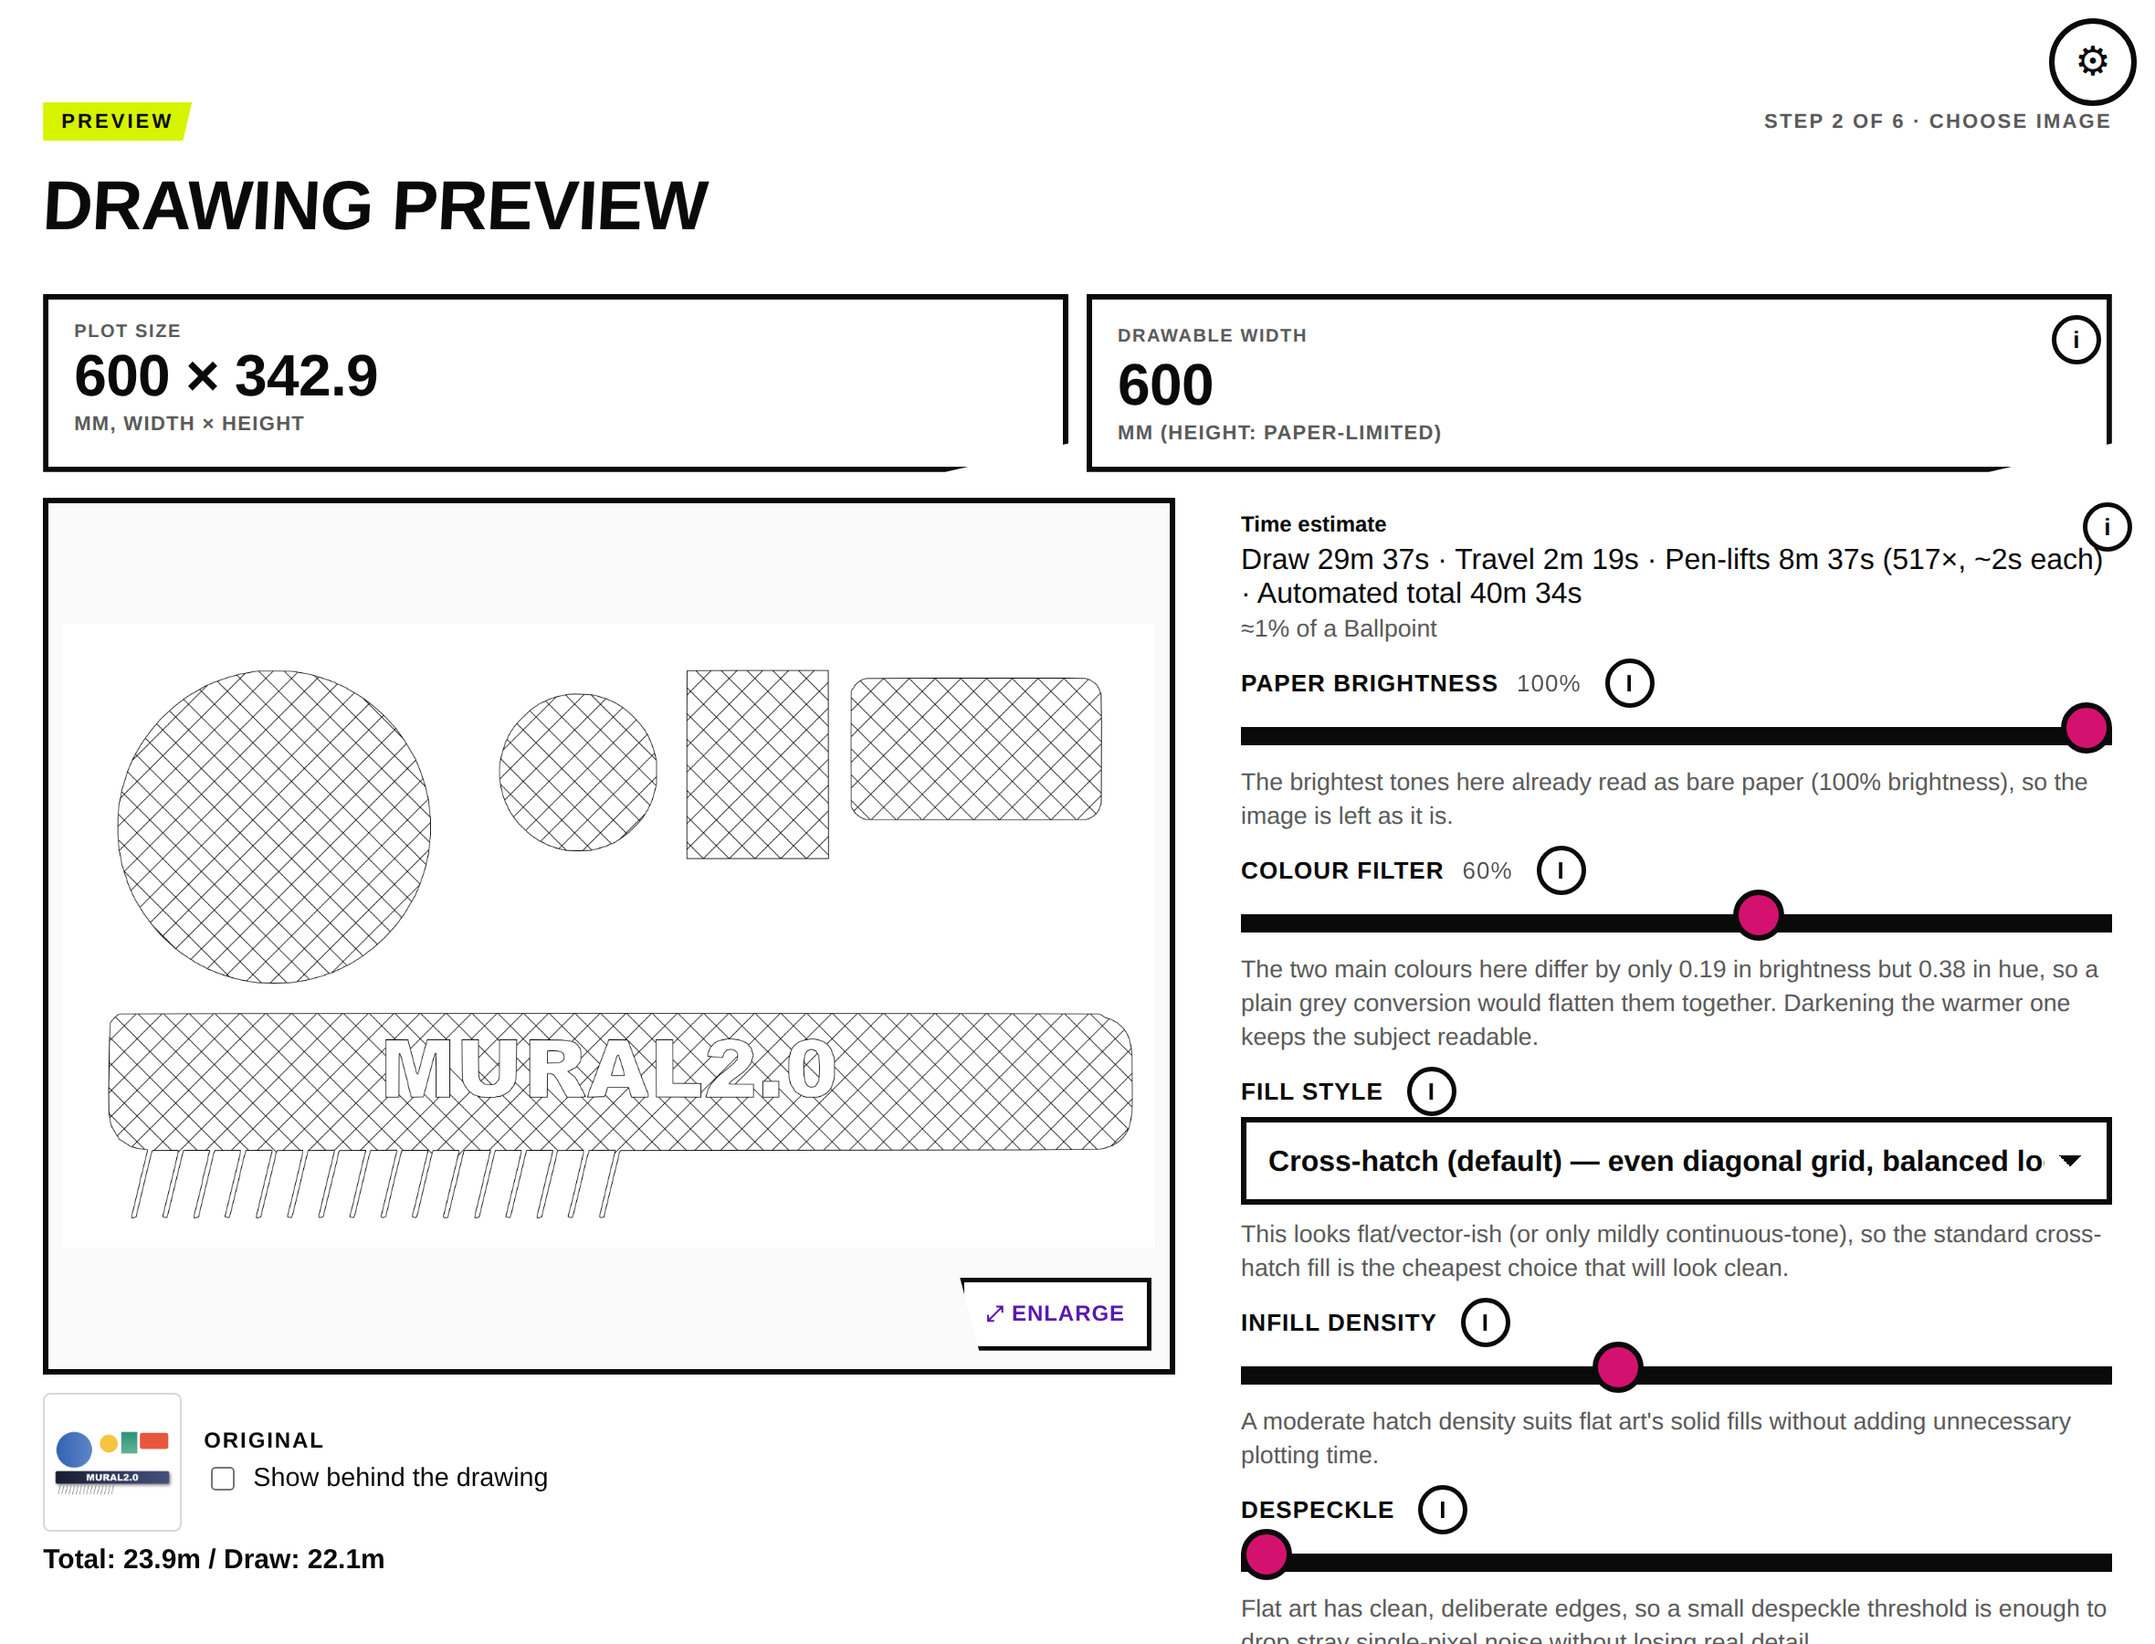
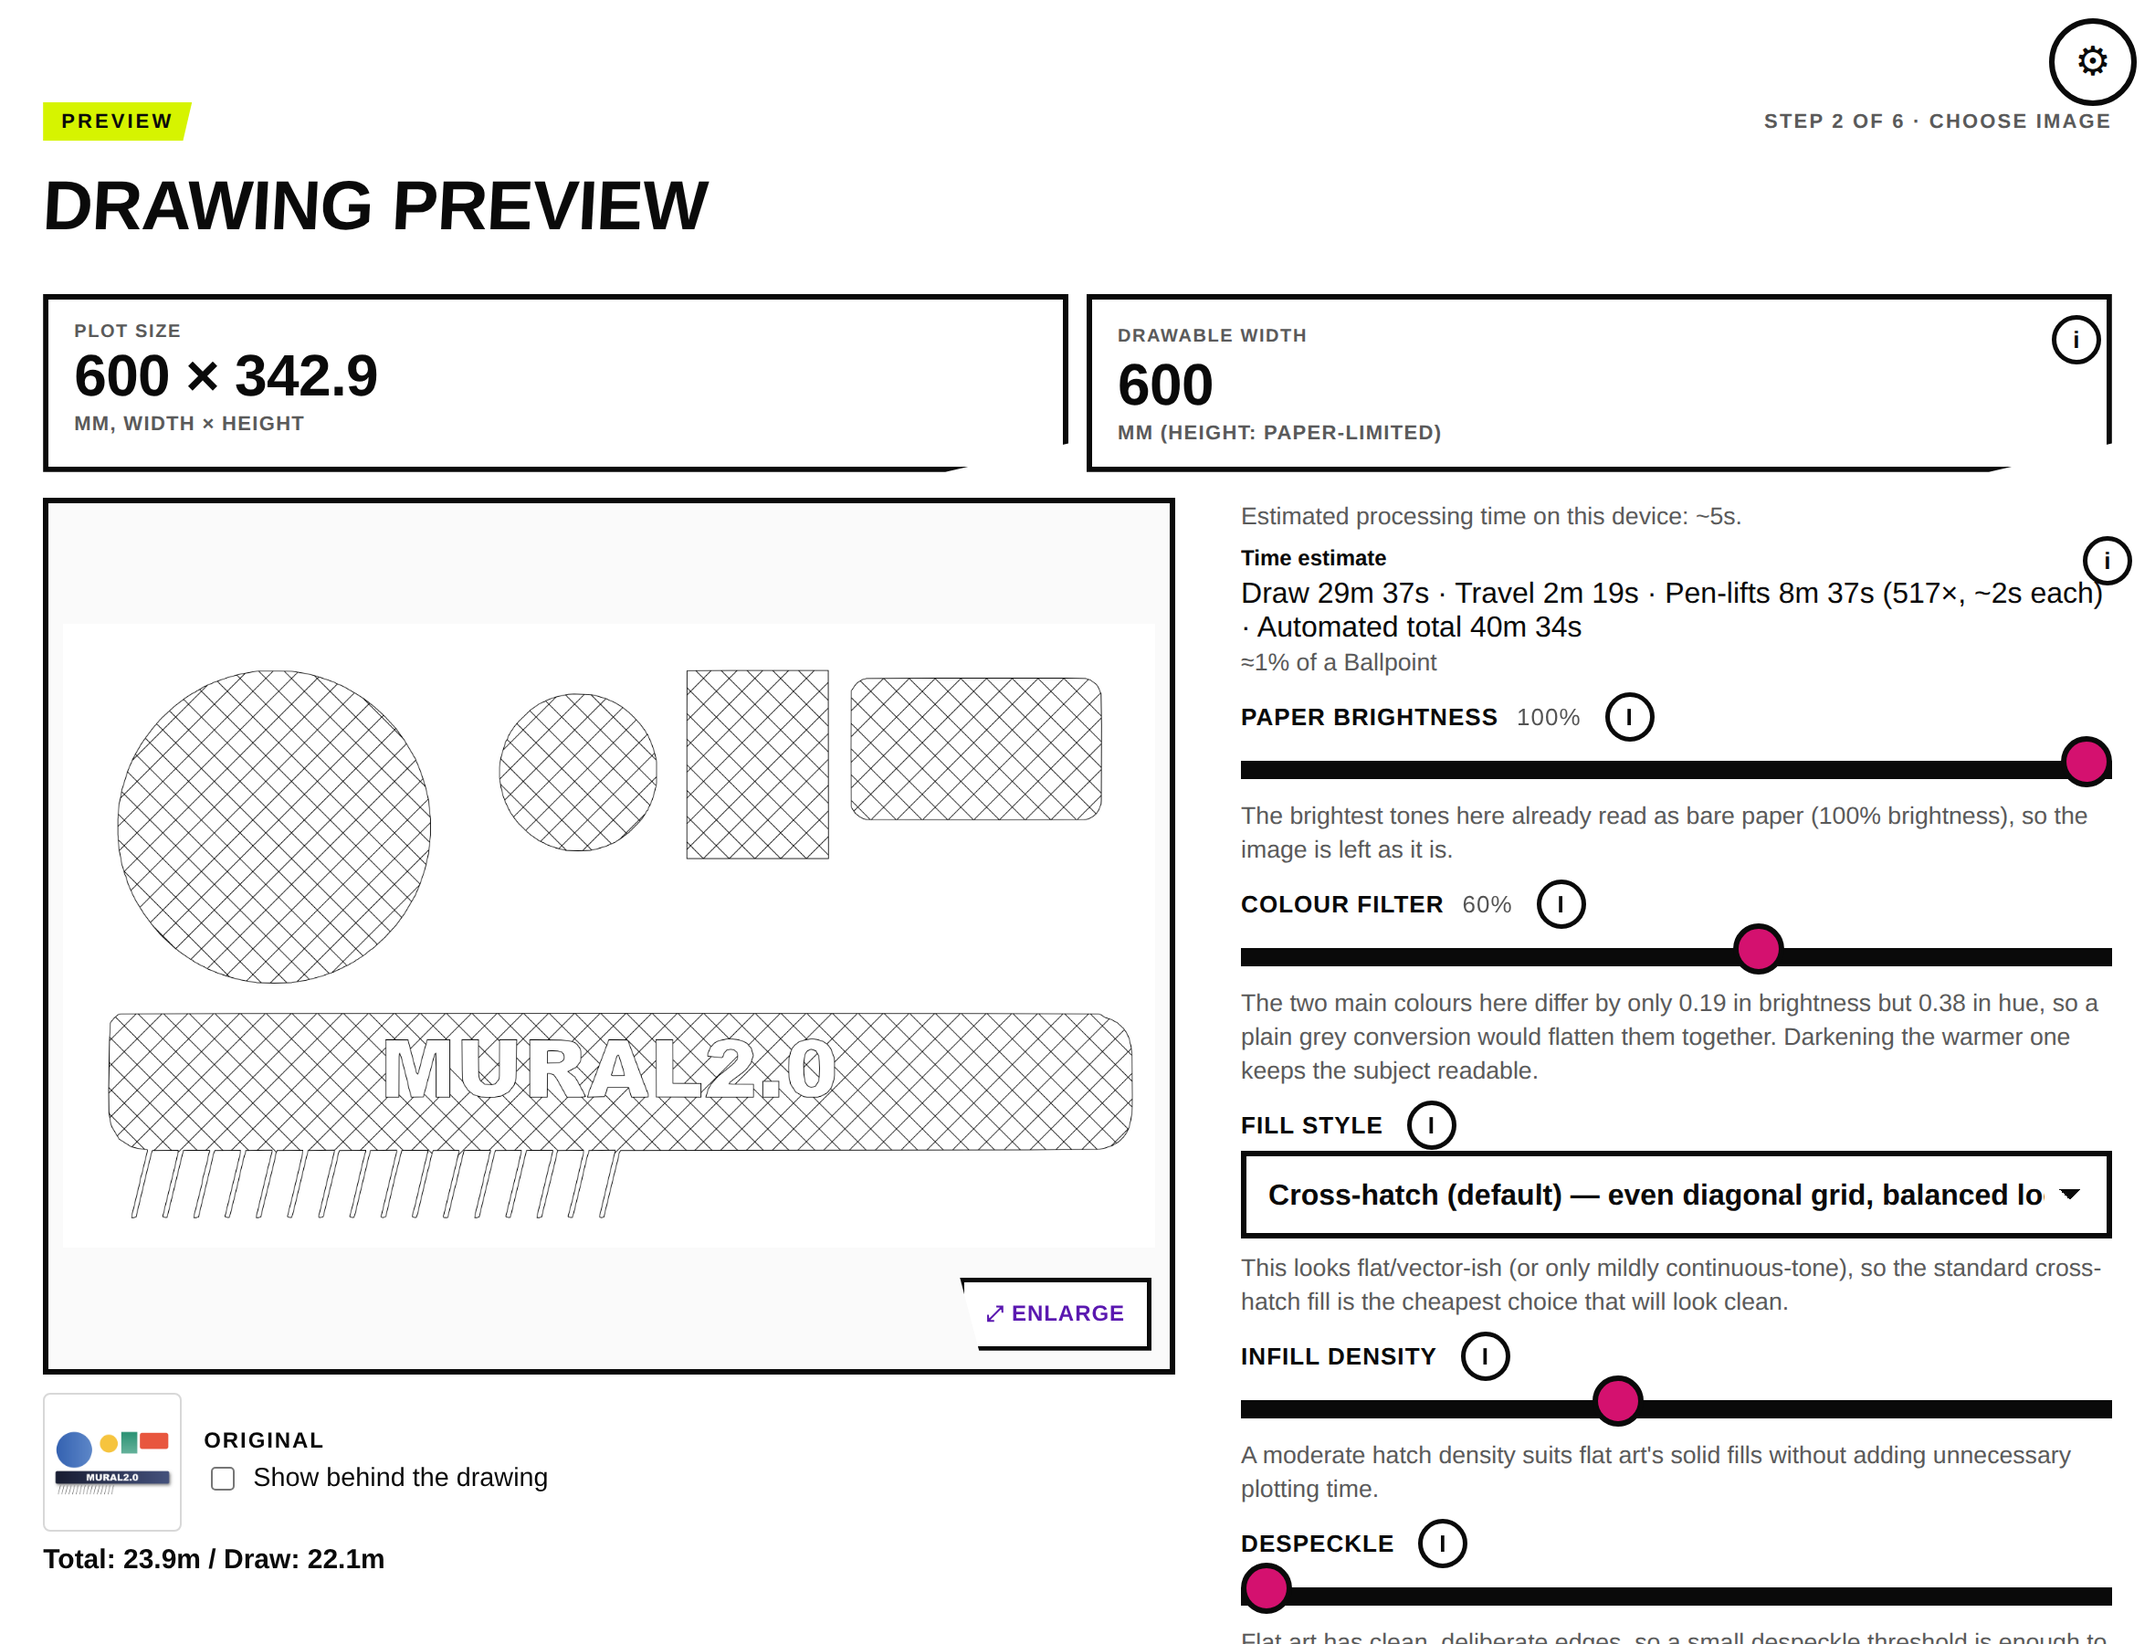
Estimate the render that will happen, not the photograph
estimateAndRecommend read the raster as supplied. The render traces the
prepared one, so on any image the white point fires for, the estimate was
costing a picture nobody was going to draw. On a 600px test page it is the
difference between 29 projected shapes and 98.

Two readings now, and which answers which question matters. The
recommendations stay a statement about the image as handed in - asking "is
anything here bright enough to read as paper" of an image whose white point
has already been set answers itself. The cost estimates come from a second
reading of the prepared image, taken only when there is a preparation to
apply. It routes through preparationFor rather than the two values
directly, so the rule about dropping warmth on the colour path is stated
once and the estimate cannot drift from the render.

I had this backwards when I described it: the correction makes the estimate
BIGGER, not smaller. Lifting the white point stretches the image's contrast,
so more of the frame reads as detail rather than as flat ground. What it
does not capture is the thing that actually hurts - an unlifted page traces
one shape whose infill covers the whole sheet, which is a plotting-distance
problem, and neither estimator has any notion of how much of the frame ends
up inked. That needs a new input, not a different reading of this one.

The UI sends the slider values rather than omitting them: undefined means
[…]

Changed region(s): [[0.5568, 0.3111, 0.9898, 1.0]]

diff --git a/tsc/test/costEstimator.test.ts b/tsc/test/costEstimator.test.ts
@@ -63,3 +63,90 @@ test("estimateAndRecommend: a larger physical draw size increases projected draw
 
     assert.ok(large.plotting.drawDistanceMm > small.plotting.drawDistanceMm);
 });
+
+// --- tone preparation (tonePreparation.ts) ------------------------------
+//
+// The estimates describe the render that is about to happen, and that render
+// traces the PREPARED image - so the numbers have to come from a reading of
+// the prepared image, while the recommendations stay a statement about the
+// photograph as handed in.
+//
+// Both fixtures below are 600px and tuned to their own size: characteristics.
+// ts samples the luminance gradient every max(width, height)/100 pixels, so
+// the same pattern at a different scale lands in a different bucket and the
+// difference these tests measure disappears.
+
+// A photographed page: paper that never reaches white, carrying the faint
+// texture a camera picks up, around a darker subject. The texture sits just
+// under the flat-gradient threshold as photographed and crosses it once the
+// white point stretches the image - which is the whole point, since a
+// stretched image reads as MORE detailed, not less.
+function makePhotographedPage(): ImageData {
+    const size = 600;
+    return makeImageData(size, size, (x, y) => {
+        if (x >= 200 && x < 400 && y >= 200 && y < 400) return [70, 70, 70, 255];
+        const v = Math.round(130 + 0.5 * (x % 40));
+        return [v, v, v, 255];
+    });
+}
+
+// Warm to cool and back at a constant luminance: converted to grey it is a
+// blank field, and the colour filter is what puts a gradient in it. The
+// ginger-cat-on-a-hedge case, reduced to something measurable.
+function makeConstantLuminanceHueRamp(): ImageData {
+    const size = 600;
+    const luminance = 140;
+    return makeImageData(size, size, (x) => {
+        const t = (x % 60) / 60;
+        const r = 60 + t * 140;
+        const b = 200 - t * 140;
+        // Rec.601, matching grayscale.ts's pixelLuminance - a different set of
+        // coefficients here would leave a real gradient behind and the grey
+        // reading would stop being blank.
+        const g = (luminance - 0.299 * r - 0.114 * b) / 0.587;
+        return [Math.round(r), Math.round(g), Math.round(b), 255];
+    });
+}
+
+test("estimateAndRecommend: the estimates are built on the prepared image, not the one handed in", () => {
+    const page = makePhotographedPage();
+
+    const prepared = estimateAndRecommend(page, { deviceFactor: 1 });
+    const unprepared = estimateAndRecommend(page, { deviceFactor: 1, whitePoint: 1, warmth: 0 });
+
+    assert.ok(prepared.recommendations.whitePoint.value < 1,
+        "fixture sanity: this image should ask for a white point in the first place");
+    assert.ok(prepared.processing.estimatedShapeCount > unprepared.processing.estimatedShapeCount * 1.5,
+        `the white point stretches the image's contrast, so the render has more to trace: ${unprepared.processing.estimatedShapeCount} vs ${prepared.processing.estimatedShapeCount}`);
+    assert.ok(prepared.processing.totalSeconds > unprepared.processing.totalSeconds,
+        "and that costs more processing time, which is what the estimate is for");
+});
+
+test("estimateAndRecommend: the recommendations still describe the image as handed in", () => {
+    // Asking "is anything here bright enough to read as paper" of an image
+    // whose white point has already been set would answer itself.
+    const page = makePhotographedPage();
+
+    const prepared = estimateAndRecommend(page, { deviceFactor: 1 });
+    const unprepared = estimateAndRecommend(page, { deviceFactor: 1, whitePoint: 1, warmth: 0 });
+
+    assert.equal(prepared.characteristics.paperLuminance, unprepared.characteristics.paperLuminance);
+    assert.equal(prepared.recommendations.whitePoint.value, unprepared.recommendations.whitePoint.value);
+    assert.ok(prepared.characteristics.paperLuminance < 0.92,
+        "the reported characteristics are of the photograph, not of the lifted copy");
+});
+
+test("estimateAndRecommend: the colour filter reaches the estimate, and is dropped where the render drops it", () => {
+    const ramp = makeConstantLuminanceHueRamp();
+
+    const grey = estimateAndRecommend(ramp, { deviceFactor: 1, colorCount: 1, whitePoint: 1, warmth: 0 });
+    const filtered = estimateAndRecommend(ramp, { deviceFactor: 1, colorCount: 1, whitePoint: 1, warmth: 0.6 });
+    assert.ok(filtered.processing.estimatedShapeCount > grey.processing.estimatedShapeCount * 2,
+        `the filter turns a blank grey field into a ramp with detail in it: ${grey.processing.estimatedShapeCount} vs ${filtered.processing.estimatedShapeCount}`);
+
+    // Same option, colour path: preparationFor drops it, so the estimate must
+    // not move either - or it would be costing a render that never happens.
+    const colourFiltered = estimateAndRecommend(ramp, { deviceFactor: 1, colorCount: 3, whitePoint: 1, warmth: 0.6 });
+    const colourPlain = estimateAndRecommend(ramp, { deviceFactor: 1, colorCount: 3, whitePoint: 1, warmth: 0 });
+    assert.equal(colourFiltered.processing.totalSeconds, colourPlain.processing.totalSeconds);
+});

diff --git a/tsc/src/costEstimator.ts b/tsc/src/costEstimator.ts
@@ -46,7 +46,8 @@
 //       speeds: CURRENT_FIRMWARE_SPEEDS, // the default; see plottingEstimator.ts
 //   });
 //
-//   result.characteristics   // ImageCharacteristics - the raw image stats
+//   result.characteristics   // ImageCharacteristics - the raw image stats,
+//                            // measured on the image as supplied (see below)
 //   result.recommendations   // SmartDefaults - value + human-readable rationale, per field
 //   result.deviceCalibration // DeviceCalibration - this device's measured speed factor
 //   result.processing        // ProcessingEstimate - seconds + per-stage breakdown
@@ -68,6 +69,7 @@ import {
     CURRENT_FIRMWARE_SPEEDS,
 } from './plottingEstimator';
 import { projectSegmentCounts, spacingMmForDensity } from './segmentModel';
+import { needsPreparation, preparationFor, prepareTone } from './tonePreparation';
 
 export {
     // Re-exported so a caller only needs one import for the common path,
@@ -103,6 +105,14 @@ export type CostEstimatorOptions = {
     knockout?: boolean;
     flattenPaths?: boolean;
     grayscaleLevels?: number;
+    // Tone preparation (tonePreparation.ts), the pair that decides what the
+    // render will draw FROM. They belong here for the same reason every
+    // other render setting does: the estimate is meant to describe the plot
+    // that is about to happen, and a render with a white point set traces a
+    // measurably different image from one without. Omitted, each defaults to
+    // its own recommendation, like the settings above.
+    whitePoint?: number;
+    warmth?: number;
     // A cheap 0..1 image-complexity proxy for the processing estimate.
     // Defaults to (1 - flatFraction) from the computed characteristics -
     // the fraction of the image that ISN'T a large uniform region, a
@@ -119,6 +129,9 @@ export type CostEstimatorOptions = {
 };
 
 export type CostEstimateAndRecommendation = {
+    // Measured on the image as supplied, which is what the recommendations
+    // below are advice about. The processing and plotting estimates are built
+    // on a second reading of the PREPARED image - see estimateAndRecommend.
     characteristics: ImageCharacteristics;
     recommendations: SmartDefaults;
     deviceCalibration: DeviceCalibration;
@@ -137,6 +150,12 @@ export type CostEstimateAndRecommendation = {
 const OUTLINE_PERIMETER_PER_SPAN = 3.0;
 
 export function estimateAndRecommend(imageData: ImageData, options: CostEstimatorOptions = {}): CostEstimateAndRecommendation {
+    // Two readings of the same image, and which one answers which question
+    // matters. The recommendations are advice about the image as supplied -
+    // "nothing here is bright enough to read as paper" is a statement about
+    // the photograph, and asking it of an image whose white point has already
+    // been set would be circular. The cost estimates are about the render
+    // that is about to run, which will trace the PREPARED image.
     const characteristics = analyzeImageCharacteristics(imageData);
     const recommendations = recommendDefaults(characteristics);
 
@@ -144,7 +163,22 @@ export function estimateAndRecommend(imageData: ImageData, options: CostEstimato
     const fillStrategy = options.fillStrategy ?? recommendations.fillStrategy.value;
     const infillDensity = options.infillDensity ?? recommendations.infillDensity.value;
     const hueGrouping = options.hueGrouping ?? recommendations.hueGrouping.value;
-    const complexity = options.complexity ?? (1 - characteristics.flatFraction);
+
+    // preparationFor rather than the two values directly, so the rule about
+    // warmth on the colour path is stated once, in the module that owns it,
+    // and the estimate cannot drift from what the render will really do.
+    const preparation = preparationFor({
+        whitePoint: options.whitePoint ?? recommendations.whitePoint.value,
+        warmth: options.warmth ?? recommendations.warmth.value,
+        colorCount,
+    });
+    // A second pass over the pixels, and only when there is a preparation to
+    // apply - which is why this is not simply done unconditionally.
+    const preparedCharacteristics = needsPreparation(preparation)
+        ? analyzeImageCharacteristics(prepareTone(imageData, preparation))
+        : characteristics;
+
+    const complexity = options.complexity ?? (1 - preparedCharacteristics.flatFraction);
 
     const deviceCalibration = options.deviceFactor !== undefined
         ? { factor: options.deviceFactor, benchmarkMs: 0, measuredAt: Date.now() }

diff --git a/data/www/main.js b/data/www/main.js
@@ -753,7 +753,12 @@ function init() {
         previewRendering = false;
         hasRenderedOnce = false;
         updatePreviewStatusUI();
-        $("#processingEstimateText,#processingWarning,#plottingEstimateSummary").hide().empty();
+        $("#processingWarning,#plottingEstimateSummary").hide().empty();
+        // Not .empty(): this one's <small> is the element
+        // renderProcessingEstimate writes into, and emptying the div threw it
+        // away - so from the second image onward the estimate was written into
+        // nothing and the line never came back.
+        $("#processingEstimateText").hide().find('small').empty();
         $("#fillMethodRationale,#infillDensityRationale,#turdSizeRationale,#colorCountRationale,#hueGroupingRationale,#whitePointRationale,#warmthRationale").hide();
 
         // An undecodable photo or a malformed SVG must not leave the input
@@ -2499,6 +2504,14 @@ async function runProcessingEstimate() {
             hueGrouping: getHueGroupingEnabled(),
             flattenPaths: getFlattenPaths(),
             grayscaleLevels: getGrayscaleLevels() || undefined,
+            // Sent as real numbers rather than through getWhitePoint/
+            // getWarmth, whose undefined-at-rest convention means "leave the
+            // image alone" to the renderer but "use the recommendation" to
+            // the estimator. A user who has deliberately dragged the white
+            // point back to 100% must get an estimate for the render they
+            // will actually get.
+            whitePoint: getWhitePoint() ?? 1,
+            warmth: getWarmth() ?? 0,
         };
         const result = await estimateInWorker(currentRaster, options);
         lastEstimate = result;
